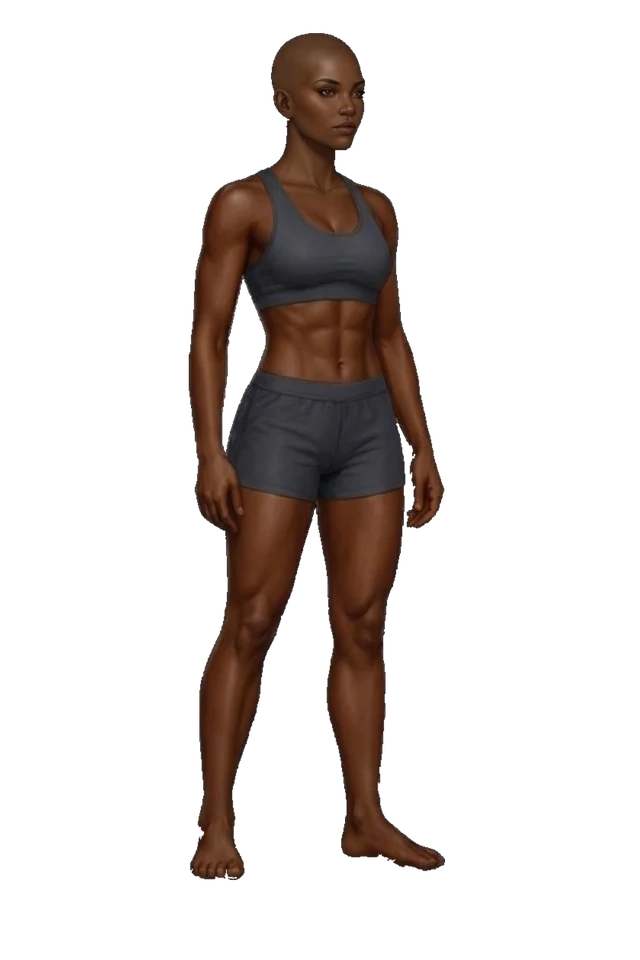
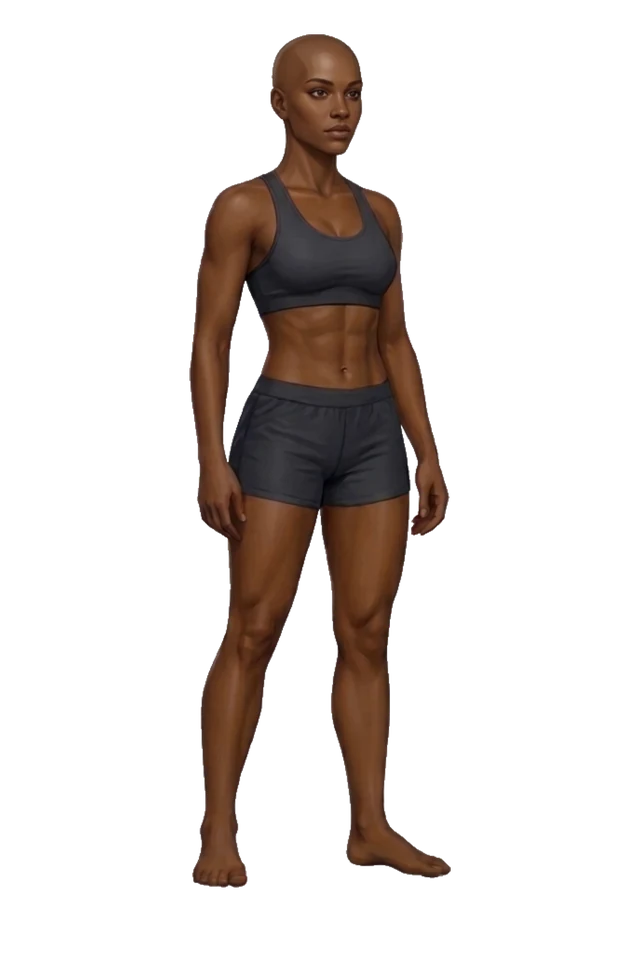
New women's bodies and head art from the owner's upload
The owner replaced the women's bodies (now bald, tones 1-3), removed the 11
earlier heads and added lvl1_women_head_01 (tones 1-3). Regenerated the WebP
layers with scripts/prepare_avatar_art.py, updated HEAD_FILES, removed the
`borrar` placeholder. Careers with a removed head load with the basic head.
Head rules needing more art (level locks, tones without art) stay tested with
the earlier 11-head list through a mocked catalog.

Claude-Session: https://claude.ai/code/session_016f94ymQfSfnRFVe9Tr5tgS

Changed region(s): [[0.2812, 0.1562, 0.7188, 0.9375], [0.4062, 0.0312, 0.5938, 0.1875]]

diff --git a/src/domain/athlete/appearance.heads.test.ts b/src/domain/athlete/appearance.heads.test.ts
@@ -1,0 +1,91 @@
+import { beforeAll, describe, expect, it, vi } from 'vitest'
+
+/**
+ * Head rules (level locks, tones without art, sex) need heads above Level 1 and heads missing in
+ * some tones. The owner's current art has one head (30 October 2026), so these tests use the
+ * earlier catalog of 11 heads. The test setup already loaded the real catalog, so the modules are
+ * loaded again with the mock.
+ */
+vi.doMock('./heads', async (importOriginal) => {
+  const actual = await importOriginal<typeof import('./heads')>()
+  const heads = actual.buildHeadCatalog([
+    'lvl1_men_head_01_tone1',
+    'lvl1_men_head_01_tone2',
+    'lvl1_men_head_01_tone3',
+    'lvl1_women_head_03_tone2',
+    'lvl1_women_head_03_tone3',
+    'lvl1_women_head_05_tone3',
+    'lvl2_women_head_01_tone2',
+    'lvl2_women_head_01_tone3',
+    'lvl2_women_head_02_tone2',
+    'lvl2_women_head_02_tone3',
+    'lvl2_women_head_03_tone3',
+  ])
+  const getHead = (sex: string, id: string) => heads.find((h) => h.sex === sex && h.id === id)
+  return {
+    ...actual,
+    HEADS: heads,
+    getHead,
+    headFile: (sex: string, id: string, tone: number) => getHead(sex, id)?.files[tone],
+  }
+})
+
+let appearance: typeof import('./appearance')
+let engine: typeof import('../../game-engine/appearance')
+let fixtures: typeof import('../../test/gameFixtures')
+
+beforeAll(async () => {
+  vi.resetModules()
+  appearance = await import('./appearance')
+  engine = await import('../../game-engine/appearance')
+  fixtures = await import('../../test/gameFixtures')
+})
+
+describe('appearance — head rules (earlier 11-head catalog)', () => {
+  it('offers the heads drawn for the skin tone, with their unlock level', () => {
+    const { appearanceUnlocks, hairStyles, hairUnlockLevel, isAppearanceUnlocked } = appearance
+    expect(hairStyles('female', 'tone-3')).toEqual([
+      'natural',
+      'head-l1-03',
+      'head-l1-05',
+      'head-l2-01',
+      'head-l2-02',
+      'head-l2-03',
+    ])
+    expect(hairStyles('female', 'tone-2')).toEqual(['natural', 'head-l1-03', 'head-l2-01', 'head-l2-02'])
+    expect(hairStyles('female', 'tone-1')).toEqual(['natural'])
+    expect(hairStyles('male', 'tone-1')).toEqual(['natural', 'head-l1-01'])
+    expect(hairStyles('male', 'tone-4')).toEqual(['natural'])
+    expect(hairUnlockLevel('female', 'head-l2-01')).toBe(2)
+    expect(hairUnlockLevel('female', 'natural')).toBe(1)
+    expect(isAppearanceUnlocked({ hair: 'head-l2-01', skin: 'tone-2', outfit: 'none' }, 1, 'female')).toBe(false)
+    expect(isAppearanceUnlocked({ hair: 'head-l2-01', skin: 'tone-2', outfit: 'none' }, 2, 'female')).toBe(true)
+    expect(appearanceUnlocks(1, 2, 'female', 'tone-2')).toEqual(['Hairstyle 3', 'Hairstyle 4', 'Red T-shirt'])
+  })
+
+  it('falls back to the basic head when the head has no art in the new skin tone or sex', () => {
+    const { appearanceForSex, parseAppearance } = appearance
+    // Hairstyle 2 (head-l1-05) is drawn in tone 3 only.
+    expect(appearanceForSex({ hair: 'head-l1-05', skin: 'tone-3', outfit: 'none' }, 'female').hair).toBe('head-l1-05')
+    expect(appearanceForSex({ hair: 'head-l1-05', skin: 'tone-2', outfit: 'none' }, 'female').hair).toBe('natural')
+    expect(appearanceForSex({ hair: 'head-l1-03', skin: 'tone-2', outfit: 'none' }, 'male').hair).toBe('natural')
+    expect(parseAppearance({ hair: 'head-l2-02', skin: 'tone-2', outfit: 'none' }, 'female').hair).toBe('head-l2-02')
+    expect(parseAppearance({ hair: 'head-l9-99', skin: 'tone-2', outfit: 'none' }, 'female').hair).toBe('natural')
+  })
+
+  it('refuses a head above the runner level, or one with no art in the runner skin tone', () => {
+    const { setAppearance } = engine
+    const { newGame, withAthlete } = fixtures
+    const female = newGame() // Women, tone 2.
+    expect(setAppearance(female, { hair: 'head-l2-01', skin: 'tone-2', outfit: 'none' })).toEqual({
+      ok: false,
+      error: 'locked',
+    })
+    expect(setAppearance(withAthlete(female, { xp: 100 }), { hair: 'head-l2-01', skin: 'tone-2', outfit: 'none' }).ok).toBe(true)
+    // Hairstyle 2 (head-l1-05) is drawn in tone 3 only.
+    expect(setAppearance(female, { hair: 'head-l1-05', skin: 'tone-2', outfit: 'none' })).toEqual({
+      ok: false,
+      error: 'invalid',
+    })
+  })
+})

diff --git a/src/domain/athlete/appearance.test.ts b/src/domain/athlete/appearance.test.ts
@@ -58,33 +58,23 @@ describe('appearance', () => {
     expect(bodyId('male', 'tone-4')).toBe('male-4')
   })
 
-  it('offers the heads drawn for the skin tone, with their unlock level (owner art, 30 October 2026)', () => {
-    expect(hairStyles('female', 'tone-3')).toEqual([
-      'natural',
-      'head-l1-03',
-      'head-l1-05',
-      'head-l2-01',
-      'head-l2-02',
-      'head-l2-03',
-    ])
-    expect(hairStyles('female', 'tone-2')).toEqual(['natural', 'head-l1-03', 'head-l2-01', 'head-l2-02'])
-    expect(hairStyles('female', 'tone-1')).toEqual(['natural'])
-    expect(hairStyles('male', 'tone-1')).toEqual(['natural', 'head-l1-01'])
-    expect(hairStyles('male', 'tone-4')).toEqual(['natural'])
-    expect(hairUnlockLevel('female', 'head-l2-01')).toBe(2)
-    expect(hairUnlockLevel('female', 'natural')).toBe(1)
-    expect(isAppearanceUnlocked({ hair: 'head-l2-01', skin: 'tone-2', outfit: 'none' }, 1, 'female')).toBe(false)
-    expect(isAppearanceUnlocked({ hair: 'head-l2-01', skin: 'tone-2', outfit: 'none' }, 2, 'female')).toBe(true)
-    expect(appearanceUnlocks(1, 2, 'female', 'tone-2')).toEqual(['Hairstyle 3', 'Hairstyle 4', 'Red T-shirt'])
+  it('offers the current head art: one Level 1 head for women, in every tone (owner art, 30 October 2026)', () => {
+    for (const skin of SKIN_TONES.female) expect(hairStyles('female', skin)).toEqual(['natural', 'head-l1-01'])
+    for (const skin of SKIN_TONES.male) expect(hairStyles('male', skin)).toEqual(['natural'])
+    expect(hairStyleLabel('female', 'head-l1-01')).toBe('Hairstyle 1')
+    expect(hairUnlockLevel('female', 'head-l1-01')).toBe(1)
+    expect(isAppearanceUnlocked({ hair: 'head-l1-01', skin: 'tone-1', outfit: 'none' }, 1, 'female')).toBe(true)
+    expect(appearanceUnlocks(1, 2, 'female', 'tone-2')).toEqual(['Red T-shirt'])
   })
 
-  it('falls back to the basic head when the head has no art in the new skin tone or sex', () => {
-    // Hairstyle 2 (head-l1-05) is drawn in tone 3 only.
-    expect(appearanceForSex({ hair: 'head-l1-05', skin: 'tone-3', outfit: 'none' }, 'female').hair).toBe('head-l1-05')
-    expect(appearanceForSex({ hair: 'head-l1-05', skin: 'tone-2', outfit: 'none' }, 'female').hair).toBe('natural')
-    expect(appearanceForSex({ hair: 'head-l1-03', skin: 'tone-2', outfit: 'none' }, 'male').hair).toBe('natural')
-    expect(parseAppearance({ hair: 'head-l2-02', skin: 'tone-2', outfit: 'none' }, 'female').hair).toBe('head-l2-02')
-    expect(parseAppearance({ hair: 'head-l9-99', skin: 'tone-2', outfit: 'none' }, 'female').hair).toBe('natural')
+  it('loads saves with heads that no longer exist as the basic head', () => {
+    // Heads removed by the owner on 30 October 2026, possibly chosen in existing careers.
+    for (const hair of ['head-l1-03', 'head-l1-05', 'head-l2-01', 'head-l2-02', 'head-l2-03']) {
+      expect(parseAppearance({ hair, skin: 'tone-2', outfit: 'none' }, 'female').hair).toBe('natural')
+    }
+    expect(parseAppearance({ hair: 'head-l1-01', skin: 'tone-2', outfit: 'none' }, 'male').hair).toBe('natural')
+    expect(parseAppearance({ hair: 'head-l1-01', skin: 'tone-2', outfit: 'none' }, 'female').hair).toBe('head-l1-01')
+    expect(appearanceForSex({ hair: 'head-l1-01', skin: 'tone-3', outfit: 'none' }, 'male').hair).toBe('natural')
   })
 
   it('keeps a valid tone when the sex changes', () => {

diff --git a/src/features/career-setup/CareerSetup.test.tsx b/src/features/career-setup/CareerSetup.test.tsx
@@ -179,19 +179,20 @@ describe('career creation — appearance step', () => {
     expect(avatar()).not.toHaveAttribute('data-focus')
     await user.click(screen.getByRole('tab', { name: 'Hair' }))
     expect(avatar()).toHaveAttribute('data-focus', 'face')
-    // Women, tone 2 (default): the basic head and Hairstyle 1; Level 2 heads are hidden at creation.
+    // Women, tone 2 (default): the basic head and Hairstyle 1.
     const hairPanel = screen.getByRole('tabpanel')
-    expect(within(hairPanel).getAllByRole('radio').map((r) => r.getAttribute('value'))).toEqual(['natural', 'head-l1-03'])
+    expect(within(hairPanel).getAllByRole('radio').map((r) => r.getAttribute('value'))).toEqual(['natural', 'head-l1-01'])
     expect(screen.getByRole('radio', { name: 'Basic' })).toBeChecked()
-    expect(screen.getByText(/New hairstyles unlock as you level up/)).toBeInTheDocument()
+    // The note about hairstyles unlocking later shows only when locked heads exist (none in the current art).
+    expect(screen.queryByText(/New hairstyles unlock as you level up/)).not.toBeInTheDocument()
 
     await user.click(screen.getByRole('radio', { name: 'Hairstyle 1' }))
-    expect(avatar().querySelector('image[data-layer="head"]')!.getAttribute('href')).toMatch(/lvl1_women_head_03_tone2/)
-    // Tone 1 has no head art yet: the head falls back to the basic one.
+    expect(avatar().querySelector('image[data-layer="head"]')!.getAttribute('href')).toMatch(/lvl1_women_head_01_tone2/)
+    // The head follows the skin tone.
     await user.click(screen.getByRole('tab', { name: 'Skin' }))
     await user.click(screen.getByRole('radio', { name: 'Skin tone 1' }))
-    expect(avatar()).toHaveAccessibleName('Avatar preview: female, basic, skin tone 1, no shirt')
-    expect(avatar().querySelector('image[data-layer="head"]')).toBeNull()
+    expect(avatar()).toHaveAccessibleName('Avatar preview: female, hairstyle 1, skin tone 1, no shirt')
+    expect(avatar().querySelector('image[data-layer="head"]')!.getAttribute('href')).toMatch(/lvl1_women_head_01_tone1/)
   })
 
   it('offers no shirt (default) or the white T-shirt, and no shoes', async () => {

diff --git a/src/domain/athlete/heads.test.ts b/src/domain/athlete/heads.test.ts
@@ -1,18 +1,28 @@
 import { describe, expect, it } from 'vitest'
-import { getHead, HEADS, headFile } from './heads'
+import { buildHeadCatalog, getHead, HEADS, headFile } from './heads'
 
 describe('head catalog', () => {
   it('keeps the saved head ids, levels and labels', () => {
     expect(HEADS.map((h) => `${h.sex} ${h.id} lvl${h.level} ${h.label} tones ${Object.keys(h.files)}`)).toEqual([
-      'male head-l1-01 lvl1 Hairstyle 1 tones 1,2,3',
-      'female head-l1-03 lvl1 Hairstyle 1 tones 2,3',
-      'female head-l1-05 lvl1 Hairstyle 2 tones 3',
-      'female head-l2-01 lvl2 Hairstyle 3 tones 2,3',
-      'female head-l2-02 lvl2 Hairstyle 4 tones 2,3',
-      'female head-l2-03 lvl2 Hairstyle 5 tones 3',
+      'female head-l1-01 lvl1 Hairstyle 1 tones 1,2,3',
     ])
-    expect(headFile('female', 'head-l2-01', 3)).toBe('lvl2_women_head_01_tone3')
-    expect(headFile('female', 'head-l2-01', 1)).toBeUndefined()
-    expect(getHead('male', 'head-l2-01')).toBeUndefined()
+    expect(headFile('female', 'head-l1-01', 2)).toBe('lvl1_women_head_01_tone2')
+    expect(headFile('female', 'head-l1-01', 4)).toBeUndefined()
+    expect(getHead('male', 'head-l1-01')).toBeUndefined()
+  })
+
+  it('builds labels, levels and tones from file names', () => {
+    const heads = buildHeadCatalog([
+      'lvl2_women_head_02_tone3',
+      'lvl1_men_head_01_tone1',
+      'lvl1_women_head_04_tone2',
+      'lvl1_women_head_04_tone3',
+      'not_a_head',
+    ])
+    expect(heads.map((h) => `${h.sex} ${h.id} lvl${h.level} ${h.label} tones ${Object.keys(h.files)}`)).toEqual([
+      'male head-l1-01 lvl1 Hairstyle 1 tones 1',
+      'female head-l1-04 lvl1 Hairstyle 1 tones 2,3',
+      'female head-l2-02 lvl2 Hairstyle 2 tones 3',
+    ])
   })
 })

diff --git a/src/domain/athlete/heads.ts b/src/domain/athlete/heads.ts
@@ -12,17 +12,9 @@ import type { Sex } from './athlete'
  * URL (src/components/avatar/Avatar.tsx).
  */
 export const HEAD_FILES: readonly string[] = [
-  'lvl1_men_head_01_tone1',
-  'lvl1_men_head_01_tone2',
-  'lvl1_men_head_01_tone3',
-  'lvl1_women_head_03_tone2',
-  'lvl1_women_head_03_tone3',
-  'lvl1_women_head_05_tone3',
-  'lvl2_women_head_01_tone2',
-  'lvl2_women_head_01_tone3',
-  'lvl2_women_head_02_tone2',
-  'lvl2_women_head_02_tone3',
-  'lvl2_women_head_03_tone3',
+  'lvl1_women_head_01_tone1',
+  'lvl1_women_head_01_tone2',
+  'lvl1_women_head_01_tone3',
 ]
 
 const NAME = /^lvl(\d+)_(men|women)_head_(\d{2})_tone(\d)$/
@@ -39,9 +31,10 @@ export interface HeadDefinition {
   files: Partial<Record<number, string>>
 }
 
-function buildCatalog(): HeadDefinition[] {
+/** The catalog for a list of head file names (exported for tests with other art). */
+export function buildHeadCatalog(files: readonly string[]): HeadDefinition[] {
   const byId = new Map<string, HeadDefinition>()
-  for (const file of HEAD_FILES) {
+  for (const file of files) {
     const match = NAME.exec(file)
     if (!match) continue
     const [, level, sexName, design, tone] = match
@@ -60,7 +53,7 @@ function buildCatalog(): HeadDefinition[] {
 }
 
 /** Every head, in unlock order (level, then design). */
-export const HEADS: readonly HeadDefinition[] = buildCatalog()
+export const HEADS: readonly HeadDefinition[] = buildHeadCatalog(HEAD_FILES)
 
 export function getHead(sex: Sex, id: string): HeadDefinition | undefined {
   return HEADS.find((head) => head.sex === sex && head.id === id)

diff --git a/src/features/appearance/AppearanceScreen.test.tsx b/src/features/appearance/AppearanceScreen.test.tsx
@@ -1,4 +1,4 @@
-import { screen } from '@testing-library/react'
+import { screen, waitFor } from '@testing-library/react'
 import userEvent from '@testing-library/user-event'
 import { describe, expect, it } from 'vitest'
 import { newGame, withAthlete } from '../../test/gameFixtures'
@@ -33,14 +33,14 @@ describe('Appearance', () => {
     expect(readSave()?.state.athlete.appearance).toEqual({ hair: 'natural', skin: 'tone-3', outfit: 'tshirt-orange' })
   })
 
-  it('shows Level 2 hairstyles locked at Level 1 and saves an unlocked one', async () => {
+  it('offers the hairstyles of the runner and saves the chosen one', async () => {
     const user = userEvent.setup()
     seedCareer() // Women, tone 2, Level 1.
     await renderApp('/appearance')
     await user.click(screen.getByRole('tab', { name: 'Hair' }))
-    expect(screen.getByRole('radio', { name: 'Hairstyle 3, unlocks at Level 2' })).toBeDisabled()
+    expect(screen.getAllByRole('radio').map((r) => r.getAttribute('value'))).toEqual(['natural', 'head-l1-01'])
     await user.click(screen.getByRole('radio', { name: 'Hairstyle 1' }))
-    expect(readSave()?.state.athlete.appearance.hair).toBe('head-l1-03')
+    await waitFor(() => expect(readSave()?.state.athlete.appearance.hair).toBe('head-l1-01'))
     expect(screen.getByRole('img', { name: /hairstyle 1/ }).querySelector('image[data-layer="head"]')).not.toBeNull()
   })
 

diff --git a/src/game-engine/appearance.test.ts b/src/game-engine/appearance.test.ts
@@ -28,15 +28,11 @@ describe('setAppearance', () => {
     expect(setAppearance(level2, look('tshirt-orange'))).toEqual({ ok: false, error: 'locked' })
   })
 
-  it('refuses a head above the runner level, or one with no art in the runner skin tone', () => {
-    const female = newGame() // Women, tone 2.
-    expect(setAppearance(female, { hair: 'head-l2-01', skin: 'tone-2', outfit: 'none' })).toEqual({
-      ok: false,
-      error: 'locked',
-    })
-    expect(setAppearance(withAthlete(female, { xp: 100 }), { hair: 'head-l2-01', skin: 'tone-2', outfit: 'none' }).ok).toBe(true)
-    // Hairstyle 2 (head-l1-05) is drawn in tone 3 only.
-    expect(setAppearance(female, { hair: 'head-l1-05', skin: 'tone-2', outfit: 'none' })).toEqual({
+  it('accepts the current head for women and refuses it for men (no art for their sex)', () => {
+    // Level locks and tones without art: src/domain/athlete/appearance.heads.test.ts.
+    expect(setAppearance(newGame(), { hair: 'head-l1-01', skin: 'tone-1', outfit: 'none' }).ok).toBe(true)
+    const male = newGame('all-rounder', undefined, { name: 'Leo', sex: 'male' })
+    expect(setAppearance(male, { hair: 'head-l1-01', skin: 'tone-1', outfit: 'none' })).toEqual({
       ok: false,
       error: 'invalid',
     })

diff --git a/src/features/training/TrainingScreen.test.tsx b/src/features/training/TrainingScreen.test.tsx
@@ -171,8 +171,8 @@ describe('TrainingScreen — completing sessions', () => {
     await renderApp('/training')
     await completeToday(user)
     expect(feedback()).toHaveTextContent('Level up! Now Level 2. +2 attribute points.')
-    // Women tone 2 (the default runner): two Level 2 heads and the red T-shirt.
-    expect(feedback()).toHaveTextContent('New look unlocked: Hairstyle 3, Hairstyle 4, Red T-shirt.')
+    // Women tone 2 (the default runner): the red T-shirt (no Level 2 heads in the current art).
+    expect(feedback()).toHaveTextContent('New look unlocked: Red T-shirt.')
     expect(screen.getByRole('link', { name: 'Change look' })).toHaveAttribute('href', '/appearance')
     await user.click(within(feedback()!).getByRole('link', { name: 'Allocate points' }))
     expect(screen.getByRole('heading', { level: 1, name: 'Attributes' })).toBeInTheDocument()

diff --git a/src/domain/athlete/appearance.ts b/src/domain/athlete/appearance.ts
@@ -7,7 +7,7 @@ import { getHead, HEADS } from './heads'
  *
  * The avatar uses the owner's layered artwork (assets/runner/avatar, prepared by
  * scripts/prepare_avatar_art.py; docs/AVATAR_ART_SPEC.md). The skin tone selects the body, which
- * has a basic head (men bald, women basic hair). The hair is either that basic head ('natural') or
+ * has a basic head (bald). The hair is either that basic head ('natural') or
  * one of the owner's heads, drawn over it in the same skin tone (src/domain/athlete/heads.ts).
  * Shoes are equipment, not appearance (see src/domain/equipment).
  */

diff --git a/docs/AVATAR_ART_SPEC.md b/docs/AVATAR_ART_SPEC.md
@@ -45,12 +45,10 @@ Painting hair over a bald head does not look right, so a head part is a complete
 hair and ears together) drawn over the body's own head.
 
 - **Bodies keep a basic head** (owner decision, 30 October 2026), one body per sex and tone, for
-  example `men_body_tone2.png`: men bald, women with basic hair. With no head part chosen, the
+  example `men_body_tone2.png`: men and women bald (women's bodies redrawn bald on 30 October 2026). With no head part chosen, the
   runner shows that basic head ("As drawn", the default).
-- **A head must fully cover the basic head**, including the women's basic hair, so nothing of it
-  shows around the new head. A short haircut drawn over longer basic hair would leave the basic
-  hair visible: keep the women's basic hair close to the head (short, or tied back), or make
-  every women's head opaque wherever the basic hair reaches.
+- **A head must fully cover the basic head**, so nothing of it shows around the new head. With
+  bald bodies any haircut, short or long, covers the basic head.
 - **The neck stays the body's:** each head should end where it meets the body's neck, matching its
   tone, so the join does not show.
 

diff --git a/DEVELOPMENT.md b/DEVELOPMENT.md
@@ -952,6 +952,15 @@ Fitness 0 by week 6:
   `VITE_SUPABASE_URL` / `VITE_SUPABASE_ANON_KEY`, unused by the game for now. Setup and the
   connection check: docs/SUPABASE_SETUP.md.
 
+### New women's bodies and head art (owner upload, 30 October 2026)
+
+- Women's bodies (tones 1–3) replaced by the owner: now bald, like the men's.
+- The 11 earlier heads were removed; one new head: `lvl1_women_head_01`, tones 1–3 (Hairstyle 1,
+  Level 1). Men have no head art for now (basic head only).
+- Careers that had chosen a removed head load with the basic head (`parseAppearance`).
+- Head rules that need more art (level locks, tones without art) are still tested with the earlier
+  11-head list (`src/domain/athlete/appearance.heads.test.ts`).
+
 ### App-style layout: no page scroll (owner request, 30 October 2026)
 
 Like a phone app, the page never scrolls: the top bar and the bottom navigation stay still and
